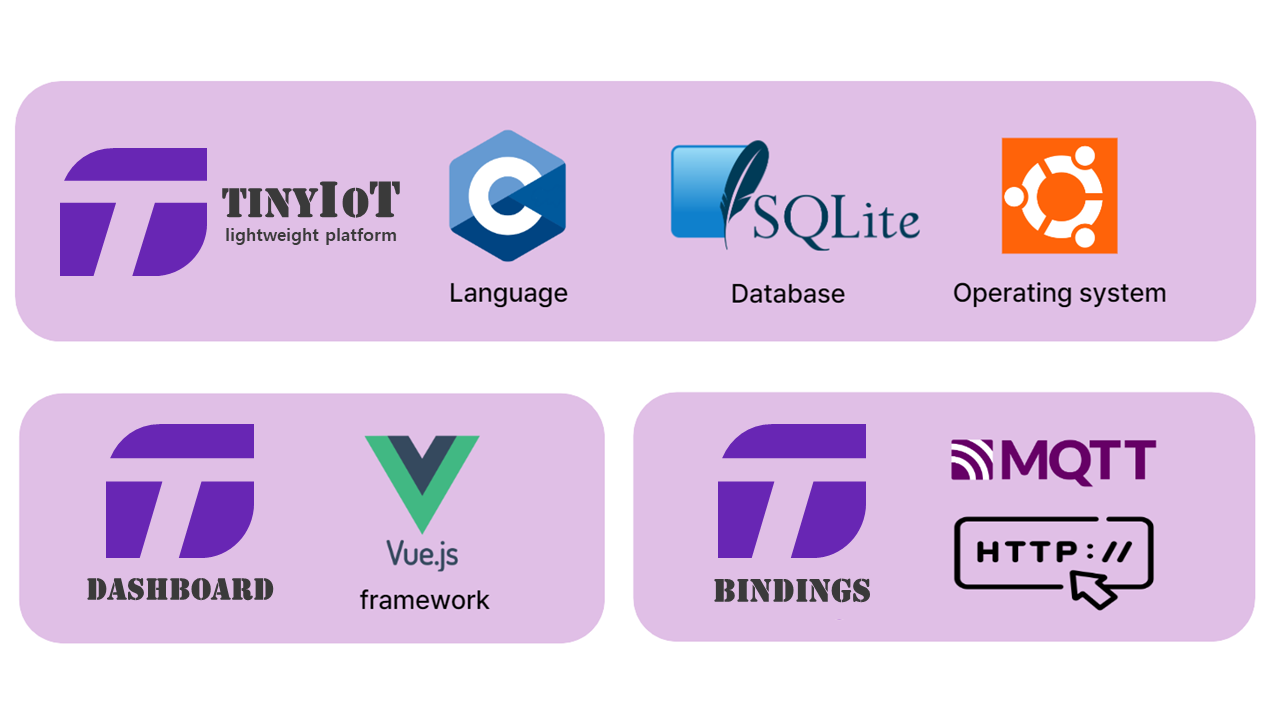
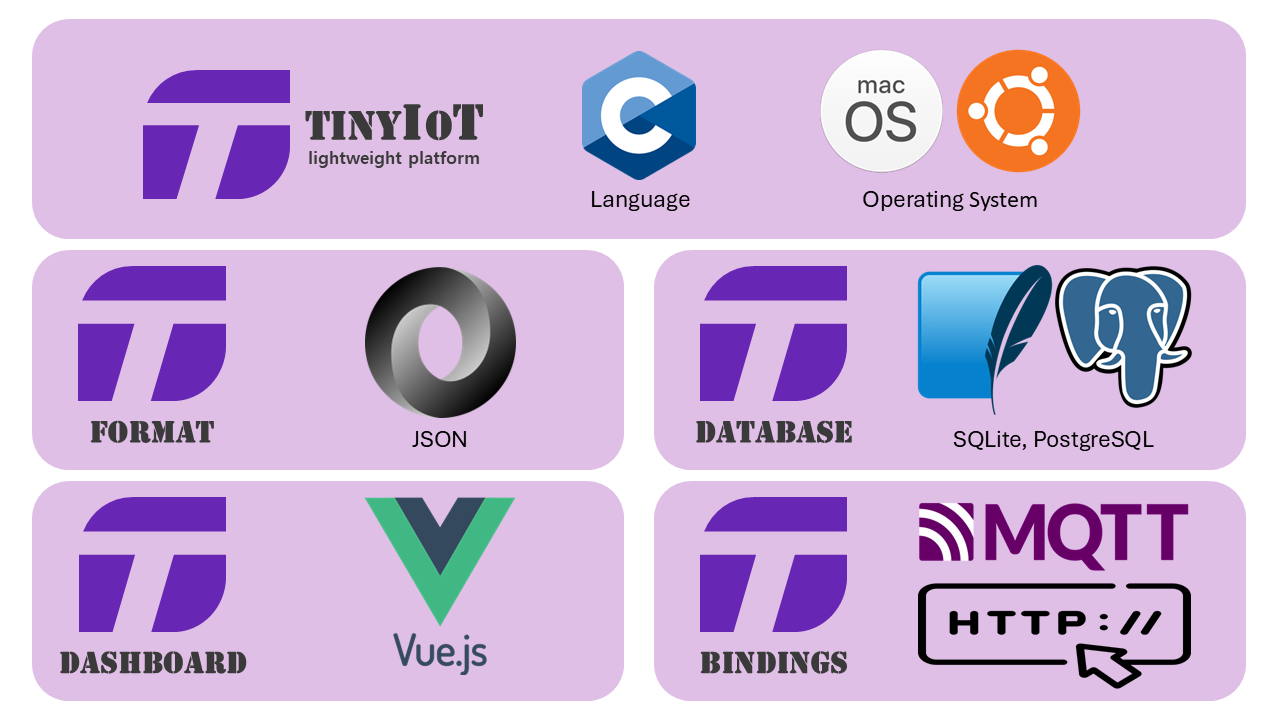
docs: update README.md

diff --git a/README.md b/README.md
@@ -7,25 +7,29 @@
 </div>
 
 <p align = "center"> Let's get started your oneM2M service projects by using 'oneM2M service layer platform', <b>tinyIoT</b>!🎮 </p> <br>
-<p align = "center"> <img src="https://img.shields.io/badge/Node-339933?style=flat-square&logo=nodedotjs&logoColor=white"/>&nbsp 
-<img src="https://img.shields.io/badge/Linux-FCC624?style=flat-square&logo=linux&logoColor=white"/>&nbsp 
-<img src="https://img.shields.io/badge/Ubuntu-E95420?style=falt-square&logo=ubuntu&logoColors=white"/>&nbsp
-<img src="https://img.shields.io/badge/C-A8B9CC?style=flat-square&logo=c&logoColor=white"/>&nbsp
-<img src="https://img.shields.io/badge/SQLite-003B57?style=flat-square&logo=sqlite&logoColor=white"/>&nbsp
-<img src="https://img.shields.io/badge/json-000000?style=flat-square&logo=json&logoColor=white"/>&nbsp
-<img src="https://img.shields.io/badge/MQTT-660066?style=flat-square&logo=mqtt&logoColor=white"/>&nbsp
-<img src="https://img.shields.io/badge/Vue-4FC08D?style=flat-square&logo=vuedotjs&logoColor=white"/>&nbsp
+<p align = "center"> <img src="https://img.shields.io/badge/Node-339933?&logo=nodedotjs&logoColor=white"/>&nbsp 
+<img src="https://img.shields.io/badge/Linux-FCC624?&logo=linux&logoColor=white"/>&nbsp 
+<img src="https://img.shields.io/badge/Ubuntu-E95420?&logo=Ubuntu&logoColor=white"/>&nbsp
+<img src="https://img.shields.io/badge/C-A8B9CC?&logo=c&logoColor=white"/>&nbsp
+<img src="https://img.shields.io/badge/SQLite-003B57?&logo=sqlite&logoColor=white"/>&nbsp
+<img src="https://img.shields.io/badge/PostgreSQL-316192?&logo=postgresql&logoColor=white"/>&nbsp
+<img src="https://img.shields.io/badge/json-000000?&logo=json&logoColor=white"/>&nbsp
+<img src="https://img.shields.io/badge/MQTT-660066?&logo=mqtt&logoColor=white"/>&nbsp
+<img src="https://img.shields.io/badge/HTTP-6600?&logoColor=white"/>&nbsp
+<img src="https://img.shields.io/badge/Vue-4FC08D?&logo=vuedotjs&logoColor=white"/>&nbsp
 </p>
 <br><br>
 
 
 # What is the tinyIoT?
 
+<b>tinyIoT</b> is a ```Lightweight C-based oneM2M CSE``` for research & embedded deployments
+
 <b>tinyIoT</b> is a secure, fast, lightweight and very flexible ```oneM2M service layer platform``` compliant with oneM2M specifications.💪
 
-<b>tinyIoT</b> uses memory  and CPU efficiently and has low resource use.
+<b>tinyIoT</b> uses memory and CPU efficiently and has low resource use.
 
-<b>tinyIoT</b> is implemented in C and uses lightweight open source components for database (SQLite), JSON parser (cJSON), http server (pico) and mqtt client (wolfMQTT)
+<b>tinyIoT</b> is implemented in C and uses lightweight open source components for database (SQLite, PostgreSQL), JSON parser (cJSON), http server (pico) and mqtt client (wolfMQTT)
 
 <b>tinyIoT</b> also comes with a web-based dashboard implemented using Vue.
 <br>
@@ -52,20 +56,25 @@ tinyIoT utilizes the speed of C programming to offer fast performance which is c
 tinyIoT is committed to maintaining high standards in technology implementation
 - It is developed in compliance with the latest oneM2M standards, ensuring that it meets global criteria for IoT communications and services.
 
- <br>
+<br>
  
-# tinyIoT supports the following features
+# What features are supported in tinyIoT?
 
 - Registration of IoT 
-- AcessControlPolicy (ACP), Application Entity (AE), Container (CNT), contentInstance (CIN) resources
-- CRUD operations
-- Subscription and Notification
-- Discovery
-- Bindings: HTTP, MQTT (CoAP & Websocket will be added)
-- Group management 
+- Supporting Resources: cseBase, ACP, AE, CNT, CIN, SUB, GRP, CSR, cbA, acpA, aeA, cntA, cinA
+- CRUD operations for supporting resources 
+- CSE Types: IN-CSE, MN-CSE
+- Access Control: ACP resource based privilege scanning
+- Subscription and Notification: support subscription creation/verification/transfer flow
+- Group management: midlist management and fopt support
+- Discovery: DesiredResultIdType (DRT) supported with filter criteria 
+- Announcement: Uni-directional support(BI-directional is under development)
+- Protocol Bindings: HTTP, MQTT (CoAP & Websocket will be added)
+- Database: SQLite and PostgreSQL   
 <br>
 
-# Installation & Development Environment
+
+# How to install and develop tinyIoT?
 Configure your running environment with the config.h file. You can configure IP address, Port number, supported binding protocols, etc. 
 Default IP address and port number are 127.0.0.1 and 3000. 
 
@@ -86,7 +95,7 @@ Default IP address and port number are 127.0.0.1 and 3000.
 3. Configuration
 	
  	You can configure the server by editing `config.h` file directly. Open `config.h` and modify the following settings:
-
+	
 	```c
 	// Server Type (IN_CSE or MN_CSE)
 	#define SERVER_TYPE IN_CSE
@@ -95,8 +104,9 @@ Default IP address and port number are 127.0.0.1 and 3000.
 	#define SERVER_IP "127.0.0.1"      // Server IP address
 	#define SERVER_PORT "3000"         // Server port number
 	#define CSE_BASE_NAME "TinyIoT"    // CSE base name
-	#define CSE_BASE_RI "tinyiot"      // CSE base resource identifier
+	#define CSE_BASE_RI "tinyiot"      // CSE base resource id
 	#define CSE_BASE_SP_ID "tinyiot.example.com"  // CSE base SP ID
+	#define CSE_RVI RVI_2a             // oneM2M release version indicator (1, 2, 2a, 3 support)
 
 	// Remote CSE Configuration (for MN-CSE only)
 	#if SERVER_TYPE == MN_CSE
@@ -118,9 +128,9 @@ Default IP address and port number are 127.0.0.1 and 3000.
     #define DB_SQLITE 1
     #define DB_POSTGRESQL 2
 
-    // Select Database Type: DB_SQLITE or DB_POSTGRESQL
-    #define DB_TYPE DB_SQLITE
-    // #define DB_TYPE DB_POSTGRESQL
+	// Select Database Type: DB_SQLITE or DB_POSTGRESQL
+	#define DB_TYPE DB_SQLITE
+	// #define DB_TYPE DB_POSTGRESQL
 
 
     #if DB_TYPE == DB_POSTGRESQL
@@ -140,37 +150,88 @@ Default IP address and port number are 127.0.0.1 and 3000.
     #define PG_SCHEMA_TYPE PG_SCHEMA_TEXT
     #endif
 	```
+    ### Essential Settings
 
-	For more detailed configuration options, please refer to the comments in `config.h` file.
+    1. Server Type Selection
+    Choose your CSE type based on your deployment scenario:
 
-    If you want to use PostgreSQL, follow the settings below.
+    - **IN_CSE**: Independent CSE (default) - Standalone oneM2M service platform
+    - **MN_CSE**: Middle Node CSE - Registers to a remote CSE
 
+    **For IN_CSE**: No additional configuration required.
+
+    **For MN_CSE**: You must configure the remote CSE connection details(example):
+    ```c
+    #define REMOTE_CSE_ID "your-remote-cse-id"
+    #define REMOTE_CSE_NAME "your-remote-cse-name" 
+    #define REMOTE_CSE_HOST "remote-cse-host-ip"
+    #define REMOTE_CSE_SP_ID "remote-cse-sp-id"
+    #define REMOTE_CSE_PORT your-remote-cse-port number
+    ```
+
+    #### 2. Database Type Selection
+    Choose your database backend:
+
+    - **SQLite**: File-based database (default) - No additional setup required
+    - **PostgreSQL**: Server-based database - Requires separate installation and configuration
+
+    #### 3. PostgreSQL Setup (Required if DB_TYPE = DB_POSTGRESQL)
+
+    Installation:
     ```bash
     sudo apt update
     sudo apt install libpq-dev
     sudo apt install postgresql
     sudo systemctl start postgresql
-    # You can create it with the same information as config.h. 
-    psql postgres
-    createdb [dbname]
-    createuser --interactive --pwprompt
+    sudo systemctl enable postgresql
     ```
+    Database and User Creation:
+    ```bash
+    sudo -u postgres psql
+    CREATE DATABASE tinydb;
+    CREATE USER tinyuser WITH PASSWORD 'tinypass';
+    GRANT ALL PRIVILEGES ON DATABASE tinydb TO tinyuser;
+    \q
+	```
+
+    Update config.h with your PostgreSQL settings:
+    ```c
+    #define PG_HOST "localhost"
+    #define PG_PORT 5432
+    #define PG_USER "tinyuser"
+    #define PG_PASSWORD "tinypass"
+    #define PG_DBNAME "tinydb"
+    ```
+	### Additional Settings
+	For security settings (ADMIN_AE_ID, default_ACOP, etc.), logging configuration, and other advanced options, please refer to the comments in `config.h` file.
 
 
- 4. To make an excutable tinyIoT server, simply execute the make file.       
+ 4. Installation of required modules
+	```
+	$ sudo apt install build-essential openssl 
+	$ sudo apt install libssl-dev
+	```
+	If error occurs when install openssl
+	```
+	$ sudo apt update
+	$ sudo apt-get install openssl
+	```
+
+ 5. To make an excutable tinyIoT server, simply execute the make file.       
 	```
 	$ make
 	```   
         
- 5. Use the following command to run tinyIoT server:
+ 6. Use the following command to run tinyIoT server:
 	```	
 	./server
 	```
  
- 6. You can configure port number and ip address as parameters, for example, 
+ 7. You can configure port number and ip address as parameters, for example, 
 	```
 	$ ./server -p [port] (port = 3000 by default)
 	```
+
 
 ### For binding protocols
 tinyIoT supports HTTP and MQTT. CoAP bindings will be supported later.<br> 
@@ -186,4 +247,6 @@ In order to run MQTT, Mosquitto MQTT broker should be installed on your machine.
 <br>
 If you would like to add a new protocol binding to tinyIoT, you can follow the steps outlined in the guide below.<br>
 <a href = "https://github.com/seslabSJU/tinyIoT/blob/main/images/tinyIoT%20protocol%20binding%20guide.pdf" target="-blank"><b>protocol binding guide</b></a>
+<br><br>
+
 
